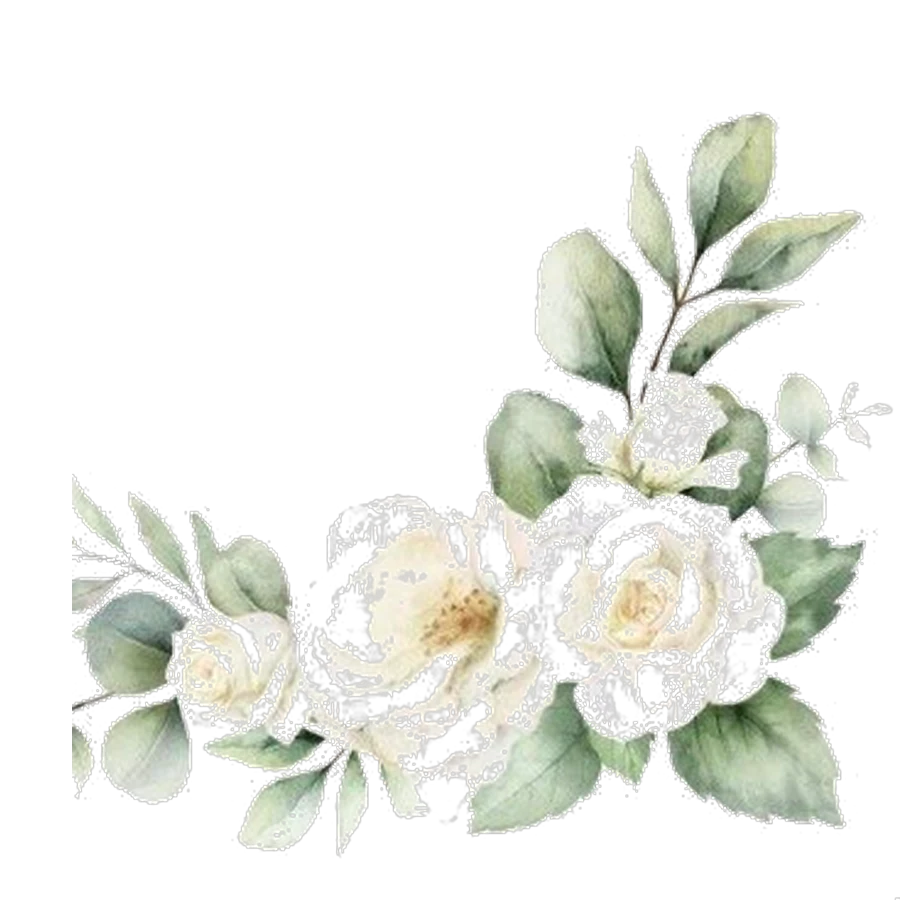
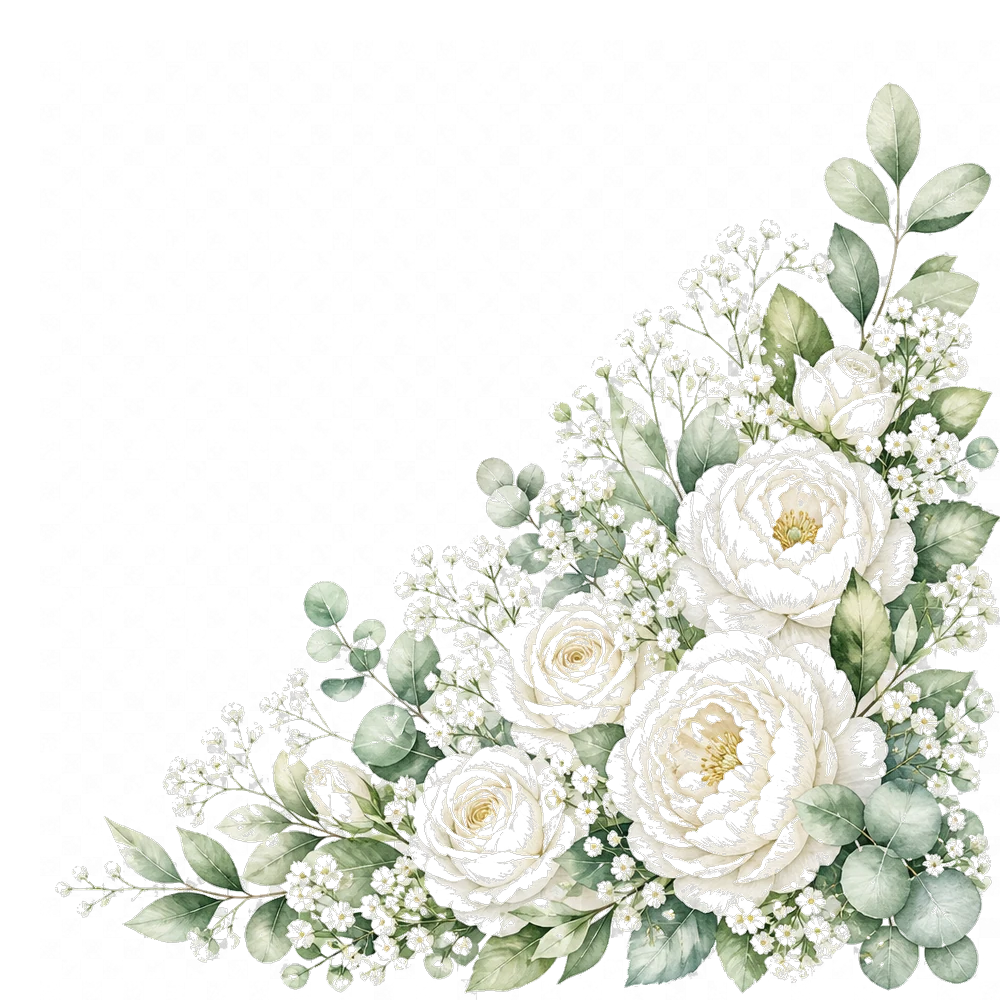
Arricchisci i bouquet del gate con peonie, gypsophila e più foglie.

diff --git a/index.html b/index.html
@@ -31,7 +31,7 @@
   <noscript>
     <link href="https://fonts.googleapis.com/css2?family=Cormorant+Garamond:ital,wght@0,400;0,500;0,600;1,400;1,500&family=Italianno&family=Outfit:wght@300;400;500&display=swap" rel="stylesheet" />
   </noscript>
-  <link rel="stylesheet" href="styles.css?v=49" />
+  <link rel="stylesheet" href="styles.css?v=50" />
 </head>
 <body>
   <!-- Envelope overlay -->
@@ -83,10 +83,10 @@
             <span class="envelope-gate__face">
               <img
                 class="envelope-gate__florals envelope-gate__florals--tl"
-                src="images/gate-florals-tl.webp?v=49"
+                src="images/gate-florals-tl.webp?v=50"
                 alt=""
-                width="900"
-                height="900"
+                width="1000"
+                height="1000"
                 draggable="false"
                 decoding="async"
               />
@@ -96,10 +96,10 @@
             <span class="envelope-gate__face">
               <img
                 class="envelope-gate__florals envelope-gate__florals--br"
-                src="images/gate-florals-br.webp?v=49"
+                src="images/gate-florals-br.webp?v=50"
                 alt=""
-                width="900"
-                height="900"
+                width="1000"
+                height="1000"
                 draggable="false"
                 decoding="async"
               />
@@ -362,6 +362,6 @@
     <span class="music-toggle__label" id="musicToggleLabel">In pausa</span>
   </button>
 
-  <script src="script.js?v=49"></script>
+  <script src="script.js?v=50"></script>
 </body>
 </html>

diff --git a/styles.css b/styles.css
@@ -642,7 +642,7 @@ body.anim-3d-cinema .envelope-gate__florals {
   user-select: none;
   -webkit-user-drag: none;
   z-index: 1;
-  width: min(58vmin, 380px);
+  width: min(68vmin, 460px);
   height: auto;
   aspect-ratio: 1 / 1;
   object-fit: contain;
@@ -652,20 +652,20 @@ body.anim-3d-cinema .envelope-gate__florals {
 }
 
 body.anim-3d-cinema .envelope-gate__florals--tl {
-  top: max(-2%, env(safe-area-inset-top, 0px) * -1);
-  left: max(-4%, -18px);
+  top: max(-3%, env(safe-area-inset-top, 0px) * -1);
+  left: max(-5%, -22px);
   transform-origin: top left;
 }
 
 body.anim-3d-cinema .envelope-gate__florals--br {
-  right: max(-4%, -18px);
-  bottom: max(-2%, env(safe-area-inset-bottom, 0px) * -1);
+  right: max(-5%, -22px);
+  bottom: max(-3%, env(safe-area-inset-bottom, 0px) * -1);
   transform-origin: bottom right;
 }
 
 @media (max-width: 820px) {
   body.anim-3d-cinema .envelope-gate__florals {
-    width: min(62vw, 280px);
+    width: min(72vw, 320px);
   }
 }
 
